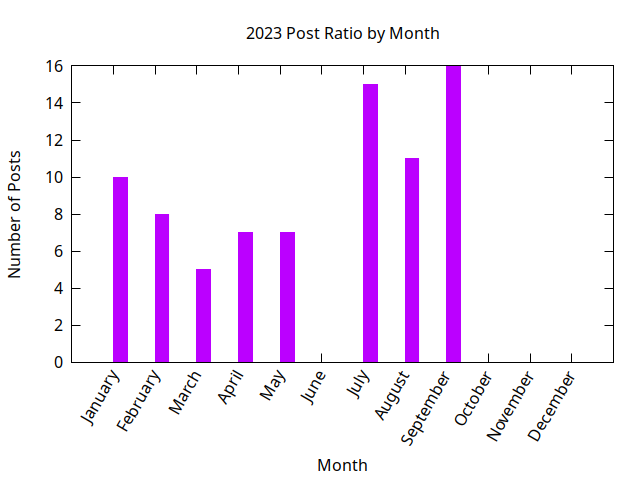
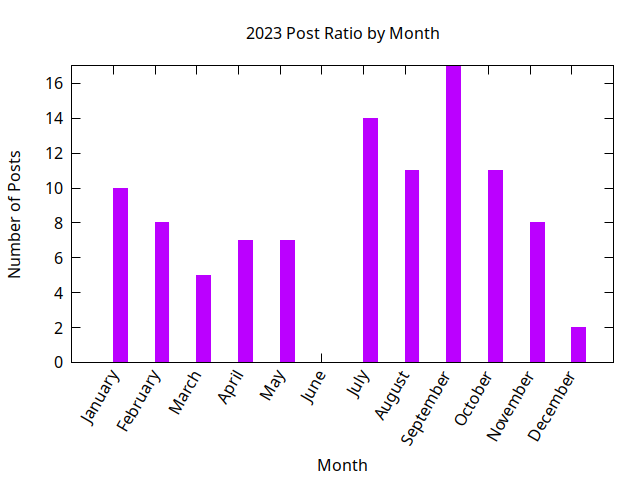
Stats update

diff --git a/_includes/stats/2023.md b/_includes/stats/2023.md
@@ -1,30 +1,35 @@
 <a name="2023" />
 ## 2023 (work in progress)
 
-**79 total posts** have been written on 2023.
-There have been *20 different tags* used, the most
+**100 total posts** have been written on 2023.
+There have been *25 different tags* used, the most
 popular being (sorted by number of posts):
  
-- *perl* (42 posts)  
-- *raku* (32 posts)  
-- *perlweeklychallenge* (31 posts)  
-- *planet-postgresql-org* (25 posts)  
-- *postgresql* (25 posts)  
+- *perl* (52 posts)  
+- *raku* (42 posts)  
+- *perlweeklychallenge* (40 posts)  
+- *planet-postgresql-org* (31 posts)  
+- *postgresql* (31 posts)  
 - *emacs* (6 posts)  
-- *linux* (3 posts)  
-- *microsoft* (2 posts)  
+- *linux* (4 posts)  
+- *oracle* (3 posts)  
+- *pgagroal* (3 posts)  
 - *pgenv* (2 posts)  
+- *windows* (2 posts)  
+- *microsoft* (2 posts)  
 - *ssh* (2 posts)  
-- *oracle* (2 posts)  
-- *sqlite* (1 posts)  
-- *systemd* (1 posts)  
-- *programming* (1 posts)  
-- *libreoffice* (1 posts)  
+- *kde* (2 posts)  
 - *freebsd* (1 posts)  
-- *pgagroal* (1 posts)  
-- *java* (1 posts)  
-- *kde* (1 posts)  
-- *windows* (1 posts).<br/>
+- *plasma* (1 posts)  
+- *pgbackrest* (1 posts)  
+- *systemd* (1 posts)  
+- *cryfs* (1 posts)  
+- *ansible* (1 posts)  
+- *sqlite* (1 posts)  
+- *programming* (1 posts)  
+- *docker* (1 posts)  
+- *libreoffice* (1 posts)  
+- *java* (1 posts).<br/>
 <br/>
 The following is the overall 2023 post ratio by month:
 <br/>
@@ -43,7 +48,7 @@ The following is the overall 2023 post ratio by tag (showing max 30 tags):
 
 <div align="right">
 <small>
-Last generated on 2023-09-28 at 15:31
+Last generated on 2023-12-07 at 17:53
 </small>
 </div>
 
